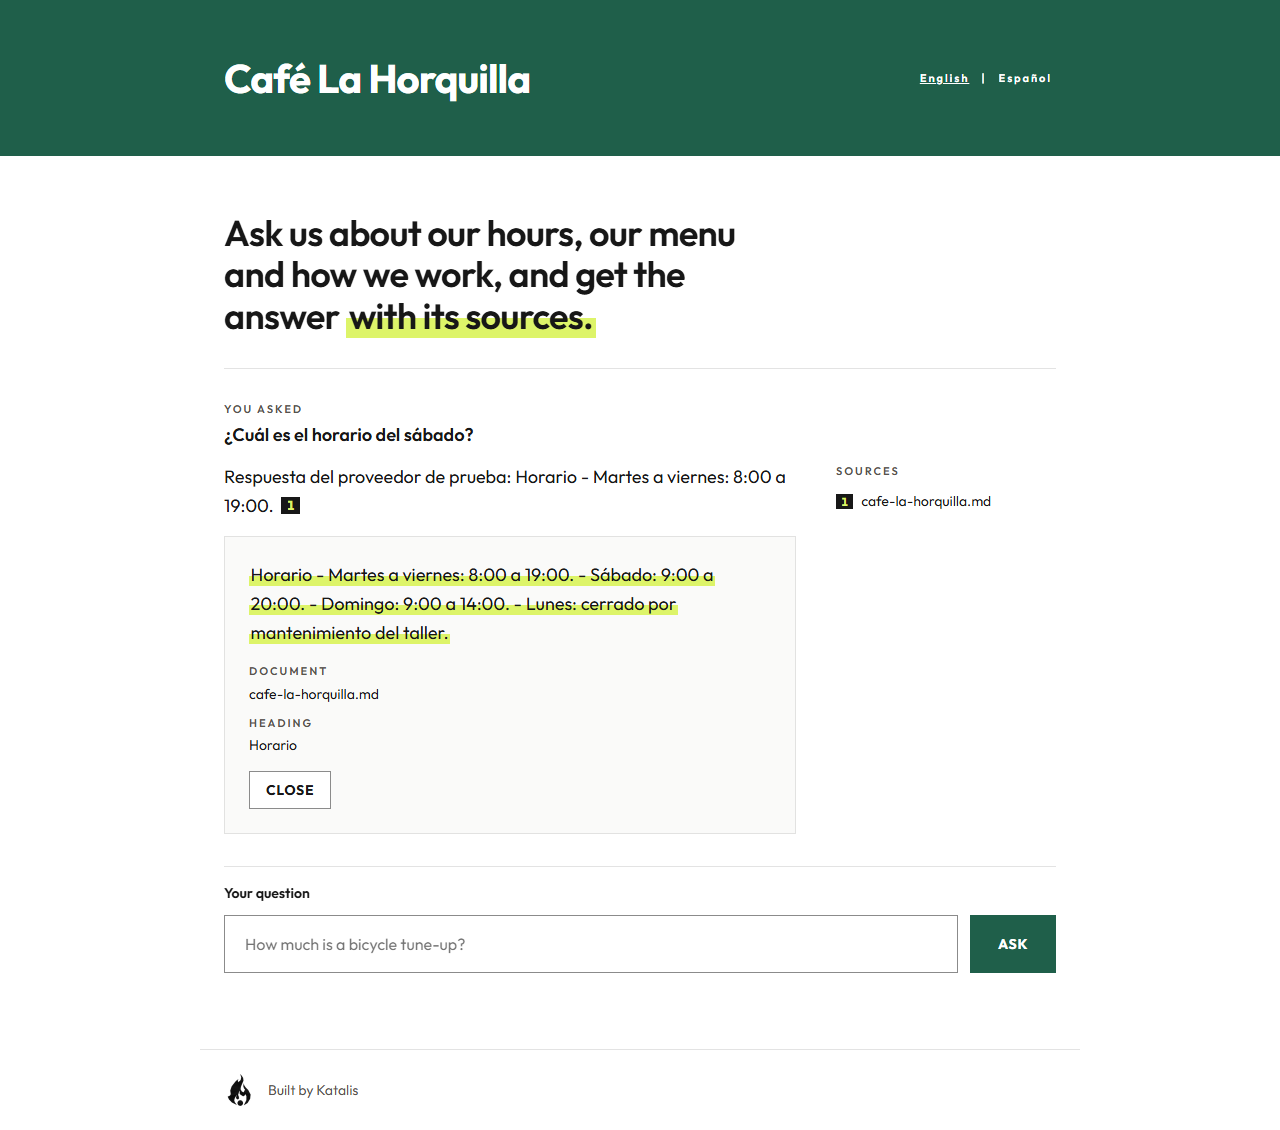
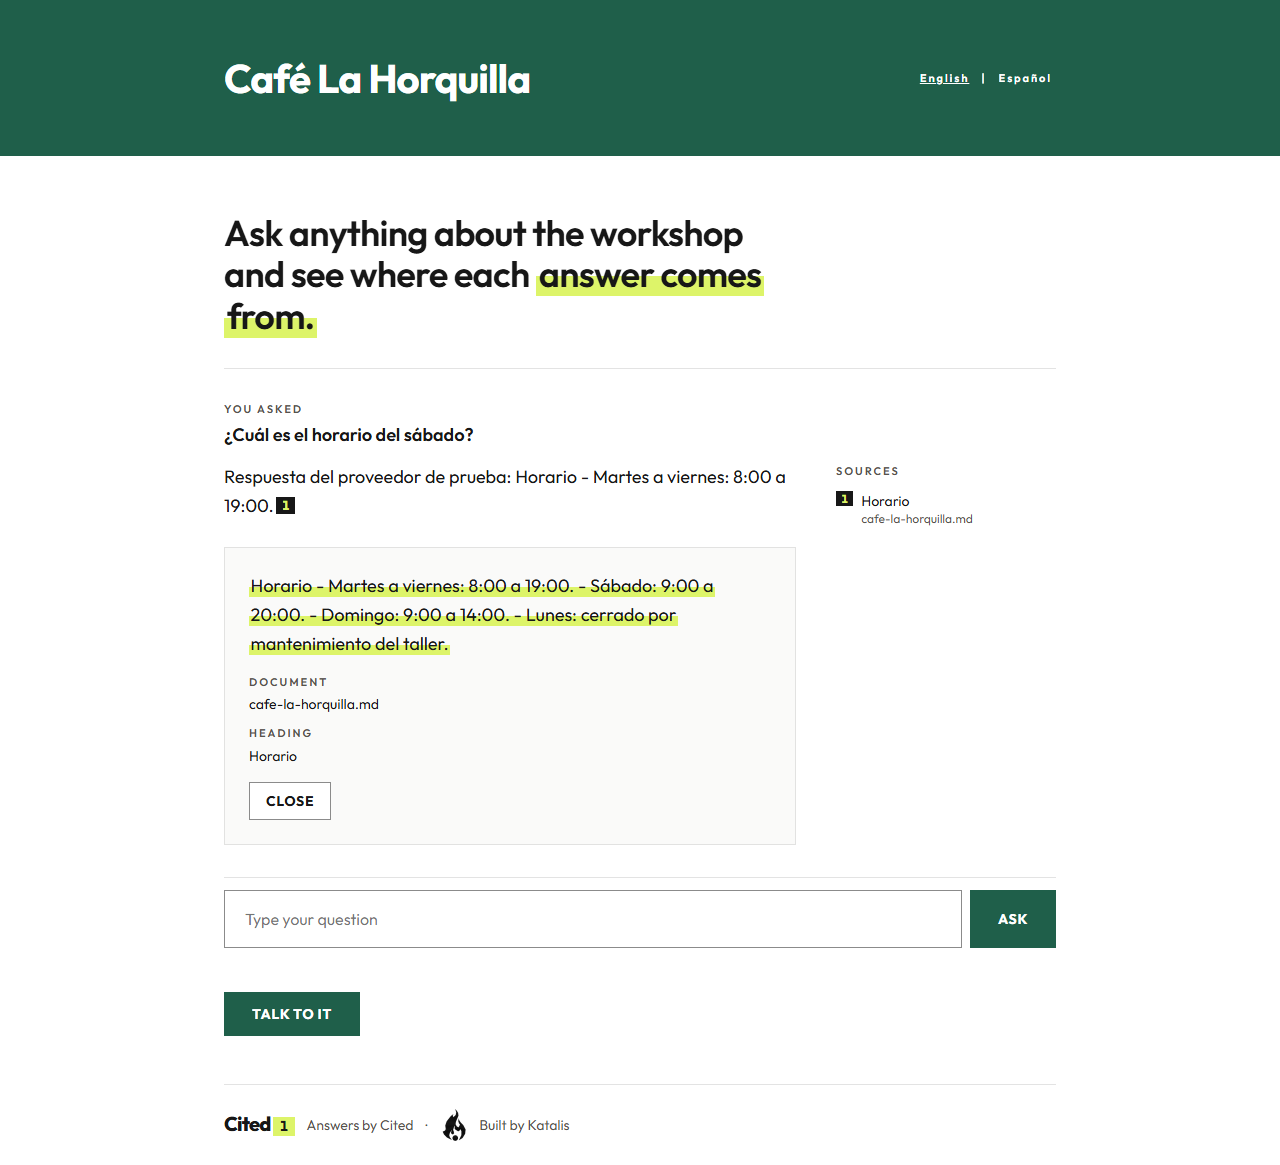
Record the whole green E2E run and the captures of record, re-render the README image, and record the state of the base; mark 10.5 and 10.6

diff --git a/openspec/changes/brand-identity-ui/reports/2026-09-29-step-10-5-e2e.md b/openspec/changes/brand-identity-ui/reports/2026-09-29-step-10-5-e2e.md
@@ -1,0 +1,80 @@
+# Step 10.5: `CI=1 npm run test:e2e`, whole and green, and the captures shot again
+
+Implementer: Sonnet 5.5. Date: 2026-09-29. Windows 11, `node -v` under `npx -y -p node@24` is `v24.21.0`. The whole run is `CI=1 npm run test:e2e`, which is
+`npm run build:e2e && playwright test` (the build resolves the voice SDK to the test double and `verify-no-test-sdk` checks it), on four servers and five projects
+(`panel`, `public`, `keys`, `affiliate`), one worker.
+
+## Where it ran, and why not in this worktree
+
+Before each run: `netstat -ano | findstr ":3100 :3210 :3211 :3212 :3213 :3214 :3215 :3216"` printed nothing, so no other lane was on the ports of the suite.
+
+The first run was in the worktree `community-ui` itself and it showed a fact about this checkout: it holds an ignored `.env.local` (I never opened it, as the rules ask). Next reads
+`.env.local` for `next start` too, so the two servers of the suite that must start with no provider (`keys` and `affiliate`) came up with a chat provider "Set by the server" and
+`e2e/providers.spec.ts` and `e2e/affiliate.spec.ts` failed for that reason. The run is therefore made in a plain clone of the branch, the way CI checks it out and the way the earlier
+rounds ran (`community-e2e`): `git clone --branch feature/brand-identity-ui <worktree> <temp>/c14c-e2e`, `npm ci`, then the command above. The unit tests do not load `.env.local` (vitest
+reads none of it into the environment) and the curl of 10.4 passed its own environment explicitly.
+
+## The runs
+
+| Run | Tree | Result |
+|---|---|---|
+| 1, in the worktree, before the specs were updated | `4246271` + docs | `48 passed`, 7 failed, 1 flaky, 8 did not run (the serial specs after a failure) |
+| 2, in the clone, specs updated | `080f55a` | `65 passed`, 4 failed, 1 flaky |
+| 3, in the clone, after the two fixes and the second merge of `main` | `0dd89fd` | `70 passed (1.5m)`, exit 0 |
+| 4, in the clone, at the last commit of code | `e9d1aa9` | `70 passed (1.2m)`, exit 0, no failure, no retry, no flaky |
+
+Run 1 failures and what each was: the delete of a document and Delete all asked first now (2, the specs pressed once), a source is named by its passage (1), the focus ring on paper is ink with a
+lime ring (2, the specs measured the old lime outline), and the two specs of the keys and the affiliate that the `.env.local` above broke. The lockout scenario of `admin.spec.ts` was flaky once
+and passed on its retry, as it does on `main`.
+
+Run 2 found two real things. Three of the new tests of the short screens failed: they scrolled to the very end of the page, where the footer and the voice button sit below the box, so the answer was
+above the box but off the screen; the reader brings the box to the foot of the screen, so the spec now does that and measures the answer above it. And `e2e/providers.spec.ts` (main's spec "the page speaks
+Spanish completely") found `CHAT_PROVIDER` inside the HTML of `/admin/ai`: the table of the groups of Setup, which names variables of the environment, lived inside `adminStrings`, which the client components
+of every page of the panel receive whole, so its text travelled in the payload of every page. It now lives in `lib/i18n/setup-groups.ts` and only the server page of Setup reads it; a unit test fails if a name of
+a variable ever enters `adminStrings` again (`tests/brand-round-14c-panel.test.tsx`). The `flaky` of `providers.spec.ts` in that run was the retry of its serial group after that failure.
+
+```
+$ CI=1 npx -y -p node@24 -- npm run test:e2e        # in <temp>/c14c-e2e at e9d1aa9
+  70 passed (1.2m)
+  exit 0
+```
+
+## What the suite proves now that it did not before
+
+- **The flame everywhere (decision 32)**, `e2e/admin-brand.spec.ts`, one test per language: it walks `/`, `/embed`, `/kit` (served by the public server), `/admin` signed out and `/admin`, `/admin/business`,
+  `/admin/documents`, `/admin/conversations` and `/admin/ai` signed in, at 1440 px, finds every element whose own text ends with `by Katalis` and asks for a `/brand/katalis-flame*.png` image beside it, visible, and
+  that the page never prints the line of the other language. Its own log:
+
+```
+the flame in en: en / public (1), en /embed public (0), en /kit public (0), en /admin signed out (1), en /admin signed in (1), en /admin/business signed in (1), en /admin/documents signed in (1), en /admin/conversations signed in (1), en /admin/ai signed in (1)
+the flame in es: es / public (1), es /embed public (0), es /kit public (0), es /admin signed out (1), es /admin signed in (1), es /admin/business signed in (1), es /admin/documents signed in (1), es /admin/conversations signed in (1), es /admin/ai signed in (1)
+```
+
+  The number in parentheses is the signatures found on that page; `/embed` and `/kit` have none of their own and the sentence of the kit that names Katalis inside its text is not a signature (the scenario, amended).
+- **A short or zoomed screen (decision 23)**, `e2e/public-chat.spec.ts`: a four-answer thread at 512x384 and at 320x256 (200% and 400% zoom), on `/` and on `/embed`, four tests: the box is not `sticky`, and with the box
+  brought to the foot of the screen the text of the last answer ends above it, is partly on the screen and has nothing over it. The same file measures the box of a phone at 375x812: it is `sticky` there, the
+  field and the button share one row (their middles are within 6 px), the label is for the screen reader (1 px), and the box takes under a sixth of the screen.
+- **Confirmations (decision 28)**: the delete of a document (English, and Spanish at 320 px) and Delete all press once, see the group with the focus on Keep and no modal, nothing deleted, and press the second time.
+- **The focus ring on paper (decision 33)**: `e2e/design-system.spec.ts` measures the ink outline (17.93:1) and the lime ring of 2 px on the two controls it samples.
+- **The dates (finding 44)**: the question is asked once and only the reading is polled; the hydration listener now stands on a `time` that no longer silences its own warning. The turn printed
+  `dateTime="2026-09-30T03:16:18.395Z"` and `30 sept 2026, 17:16` for a reader in `Pacific/Kiritimati`.
+
+## The captures of record
+
+20 files, 1440 and 375 px: `signin`, `public-empty`, `public-answer` (with an open citation), `embed`, `kit`, and the five pages of the panel including `panel-ai` (the previous set had four: `/admin/ai` did not exist on the base of
+that run). They were shot with `scripts/capture-ui.mjs` against `npm run start` of a plain build (not `next dev`: no indicator of Next over the foot of the page, which hid the flame in the previous set),
+in the clone at `e9d1aa9`, with the fake providers, `samples/` ingested, the sample business "Café La Horquilla" (`#1F5F4A`) saved from a UTF-8 file, and the question "When are you open on Saturday?" whose answer carries no
+money. The store was `.data/captures.sqlite` of the clone, and the server was stopped afterwards (port 3421 free). They are in `katalis-dev/tasks/capturas-community-14/`, replacing the old set, and I read
+`public-answer-1440`, `public-answer-375`, `signin-1440`, `panel-ai-1440`, `panel-documents-375` and `panel-conversations-375` after the shot: the sources name their passage with the file under it, the footer reads
+`Cited 1 · Answers by Cited · Built by Katalis` with the flame, no badge of the dev server, no amount of money, and the date of Conversations wraps inside the box at 375 px.
+
+The image of the README (`docs/images/chat-page.png`) was rendered again with `scripts/render-readme-captures.mjs` against the same server, with the marks against their word and the new footer; `tests/readme.test.ts`,
+`tests/design-system.test.ts` and `tests/personal-paths.test.ts` pass on it (69 of 69).
+
+## Issues
+
+- **RISK**: the suite ran in a clone and not in the worktree because of the ignored `.env.local` of this checkout; whoever runs it in the worktree gets the two failures of the keys and the affiliate until that file is moved away.
+- **RISK**: the commits after `e9d1aa9` change reports, the docs and the delivery only; the E2E is not repeated for them.
+- **NOT DONE**: `docs/images/admin/*` and `docs/images/voice/panel.png`, the captures of the panel that `main` made for `docs/admin.md` and the README, still show the panel before the workspace look; they come from scripts with their own
+  servers and a provider double, and are queued as `brand-identity-polish`.
+- **UNKNOWN**: a real 503 (the daily limit of the model spent) is proved only at the network layer of the browser (10.4) and in the unit tests of the client.

diff --git a/openspec/changes/brand-identity-ui/reports/2026-09-29-step-10-6-base-after.md b/openspec/changes/brand-identity-ui/reports/2026-09-29-step-10-6-base-after.md
@@ -1,0 +1,61 @@
+# Step 10.6: the state of the base after, on the merged tree (task 10.6, the repeat of 8.1)
+
+Implementer: Sonnet 5.5. Date: 2026-09-29. Run in `<worktree>` (`community-ui`) at `e9d1aa9` plus the image of the README. Windows 11.
+
+The state of the store is read with the tool that `main` brought (`scripts/store-state.ts`, `npm run store:state`), which opens the file with `node:sqlite` and `readOnly: true`, writes nothing, and exits
+with code 2 if the store is not there. It replaces the scratch script of steps 1 and 8, which opened the store through the client of the application. The store read is `.data/preview.sqlite`, the one of the running preview
+(`next dev -p 3300`, the review lane's, which serves this worktree).
+
+```
+$ node scripts/store-state.ts .data/preview.sqlite
+store: <worktree>/.data/preview.sqlite
+exists: true
+bytes: 163840
+tables: 14 (plus the 5 of the full-text index)
+  documents rows=4
+  passages rows=11
+  passages_fts rows=11
+  rate_limits rows=1
+  model_calls rows=1
+  voice_minutes rows=0
+  voice_agent rows=0
+  conversations rows=94
+  login_attempts rows=0
+  business rows=1
+  provider_settings rows=0 (added by this change)
+  provider_tests rows=0 (added by this change)
+  document_index rows=0 (added by this change)
+rows of the tables this change added: 0
+```
+
+("added by this change" is the wording of the script, written for the change of the keys in the panel; those three tables belong to `main`, not to this change.)
+
+## Compared with step 1 and step 8
+
+| Table | Step 1 (before) | Step 8 (after, old base) | Now (merged tree) | |
+|---|---|---|---|---|
+| `business` | 1 | 1 | 1 | same |
+| `documents` | 4 | 4 | 4 | same |
+| `passages` and `passages_fts` | 11, 11 | 11, 11 | 11, 11 | same |
+| `login_attempts` | 0 | 0 | 0 | same |
+| `model_calls` | 1 | 1 | 1 | same |
+| `rate_limits` | 1 | 1 | 1 | same |
+| `conversations` | 3 | 15 | 94 | +91 since step 1 |
+| `voice_minutes`, `voice_agent` | not there | not there | 0 rows each | new tables, from `main` (`elevenlabs-voice-agent`) |
+| `provider_settings`, `provider_tests`, `document_index` | not there | not there | 0 rows each | new tables, from `main` (`provider-keys-in-panel`) |
+
+Which tables changed and why:
+
+- **`business`, `documents`, `passages`, `passages_fts`, `login_attempts`, `model_calls`, `rate_limits`: none.** The tables that this change could break are untouched.
+- **Five new tables with no row.** They come from the two changes of `main` that this branch merged (the keys in the panel and the voice agent). They exist in this file, I infer, because the preview server reloaded the merged code and its store
+  opened with the current schema (`openStore()` creates every table the schema declares); they hold no row.
+- **`conversations`: 3 to 94.** The preview is used: every run of `scripts/capture-ui.mjs`, every look at the public page of the review lane and the browser checks of the three rounds of review ask a question, and each question is a row. `model_calls`
+  stayed at 1, so none of those rows went through the counter of the model calls of the day. This is the same explanation as in step 8 and it has the same limit (below).
+- **This change adds no table and no write path.** `git diff --stat main...HEAD -- lib/store app/api` prints nothing: no file of the store and no route was touched by the change; its files are the interface, the strings, the tests, the documents and the scripts of capture.
+
+My own runs never opened `.data/preview.sqlite`: the E2E ran in a clone with its own stores (`.data/e2e*.sqlite`), the curl of 10.4 used `.data/curl-10-4.sqlite` (deleted afterwards) and the captures used `.data/captures.sqlite` of the clone.
+
+## Issues
+
+- **UNKNOWN**: I did not read the rows of `conversations`, so who asked the 91 new questions is an inference from the count and from the habits of the review lane; Franc also uses that preview.
+- **RISK**: the preview server of the review lane is still running the code that it loaded and hot-reloaded during this round, and the file changes while it is used; the numbers above are of the moment of the read.

diff --git a/openspec/changes/brand-identity-ui/tasks.md b/openspec/changes/brand-identity-ui/tasks.md
@@ -98,10 +98,10 @@ flame.
       `reports/2026-09-29-step-10-3-checks.md`
 - [x] 10.4 The curl of 6.1 on the merged tree, plus `/admin/ai` and a failure of `/api/ask` answered in Spanish with no
       server text — report: `reports/2026-09-29-step-10-4-curl.md`
-- [ ] 10.5 `CI=1 npm run test:e2e` whole and green, with the flame loop of decision 32 and the viewports 512x384 and
+- [x] 10.5 `CI=1 npm run test:e2e` whole and green, with the flame loop of decision 32 and the viewports 512x384 and
       320x256 of decision 23; the captures of 7.1 shot again at 1440 and 375 px — report:
       `reports/2026-09-29-step-10-5-e2e.md`
-- [ ] 10.6 Repeat 8.1 on the merged tree — report: `reports/2026-09-29-step-10-6-base-after.md`
+- [x] 10.6 Repeat 8.1 on the merged tree — report: `reports/2026-09-29-step-10-6-base-after.md`
 - [ ] 10.7 `DESIGN.md`, `docs/design-system.md` and the delivery `katalis-dev/tasks/entrega-community-14.md` with a
       section "Ronda 14c": what was fixed, the decision for each of the 54 minors, and `## Issues` (Setup as ff-13) —
       report: `reports/2026-09-29-step-10-7-docs.md`
